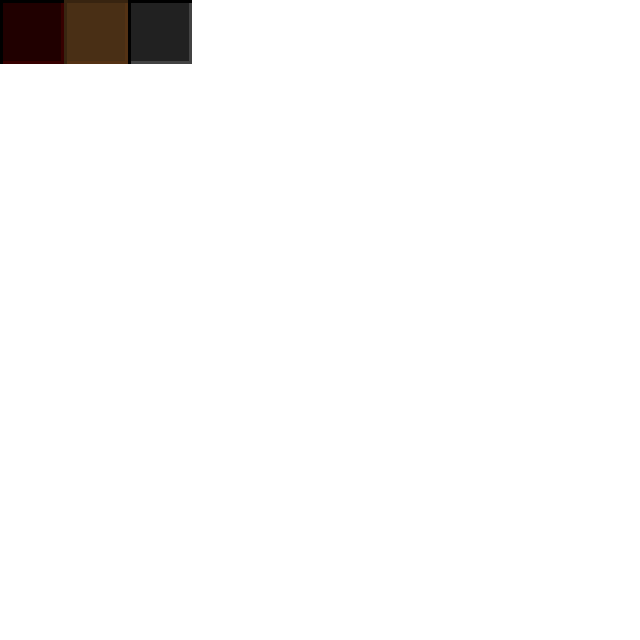
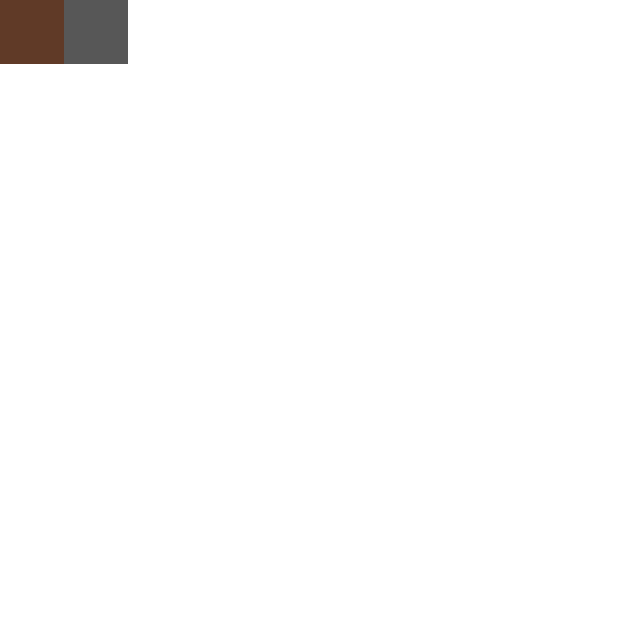
v 0.1.14
Updated TileSheets

Changed region(s): [[0.0, 0.0, 0.3125, 0.125]]

diff --git a/src/com/bourneless/roguelike/map/Map.java b/src/com/bourneless/roguelike/map/Map.java
@@ -10,6 +10,7 @@ import com.bourneless.roguelike.map.tile.Tile;
 import com.bourneless.roguelike.map.tile.TileClass;
 import com.bourneless.roguelike.map.tile.TileHex;
 import com.bourneless.roguelike.map.tile.TileType;
+import com.bourneless.roguelike.map.tile.WallTileType;
 
 public class Map {
 
@@ -31,7 +32,7 @@ public class Map {
 						+ Integer.toHexString(color.getRGB()).substring(2);
 				if (hex.matches(TileHex.RED_WALL)) {
 					tiles[i][j] = new Tile(new Vector2(i * Tile.size, j
-							* Tile.size), TileType.RED_WALL, TileClass.WALL);
+							* Tile.size), WallTileType.RED_WALL, TileClass.WALL);
 				} else if (hex.matches(TileHex.WOOD_FLOOR)) {
 					tiles[i][j] = new Tile(new Vector2(i * Tile.size, j
 							* Tile.size), TileType.WOOD_FLOOR, TileClass.FLOOR);

diff --git a/src/com/bourneless/roguelike/map/tile/TileType.java b/src/com/bourneless/roguelike/map/tile/TileType.java
@@ -1,9 +1,8 @@
 package com.bourneless.roguelike.map.tile;
 
 public class TileType {
-
-	public static final int RED_WALL = 0;
-	public static final int WOOD_FLOOR = 1;
-	public static final int STONE_FLOOR = 2;
+	
+	public static final int WOOD_FLOOR = 0;
+	public static final int STONE_FLOOR = 1;
 	
 }

diff --git a/src/com/bourneless/roguelike/map/tile/WallTileType.java b/src/com/bourneless/roguelike/map/tile/WallTileType.java
@@ -1,0 +1,7 @@
+package com.bourneless.roguelike.map.tile;
+
+public class WallTileType {
+
+	public static final int RED_WALL = 0;
+	
+}
